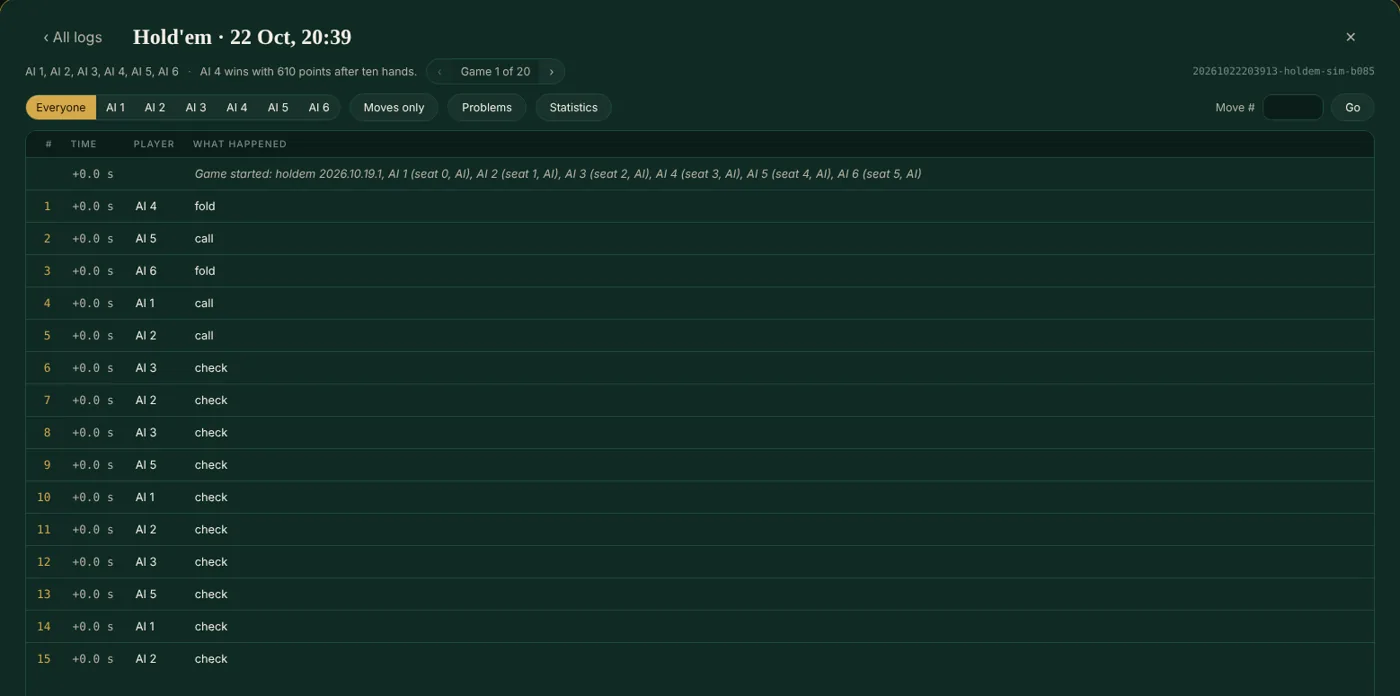
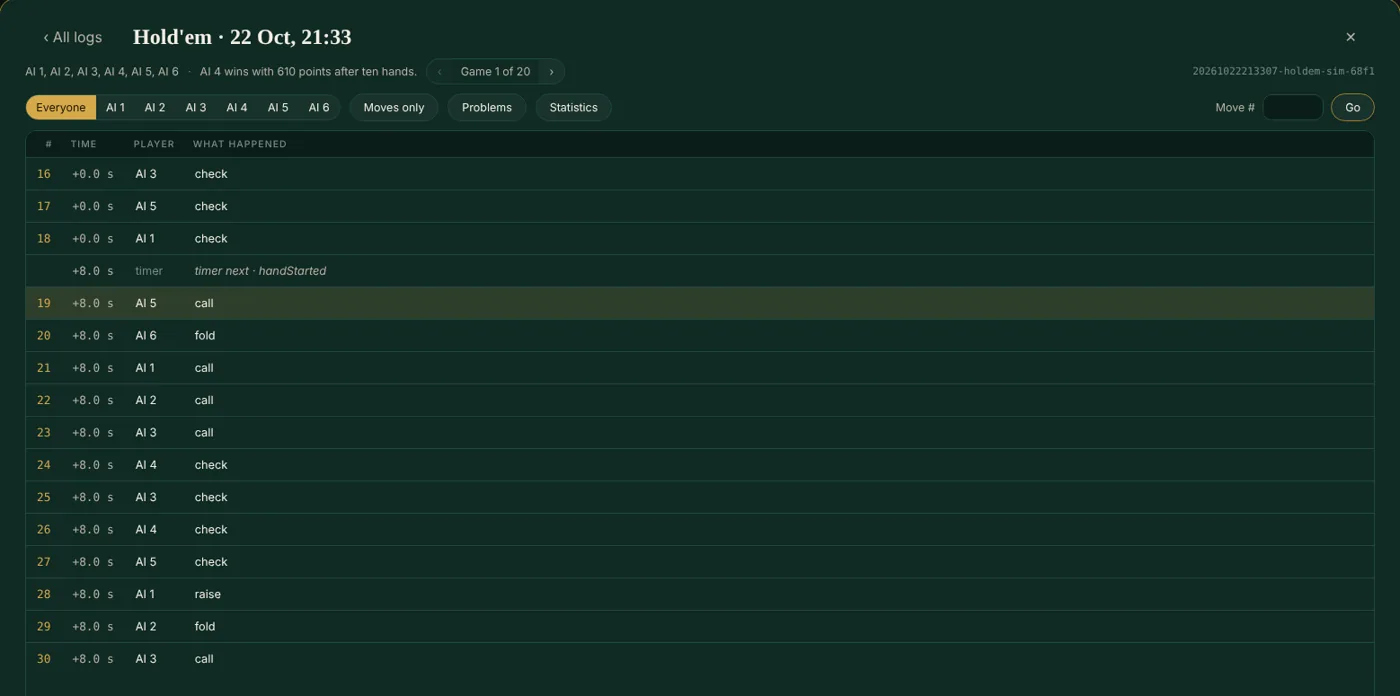
Public website: the Game Viewer screenshot again, with simulation times (D-183)
Taken on main after D-181. It now shows move 19, where the timer between
hands moves the simulation's clock to +8.0 s; the example prompt names the
new log and the caption says how simulated time moves.

Claude-Session: https://claude.ai/code/session_011EFz4GNdorLAA5Z1Qt9erp

diff --git a/apps/cloud/public/home.html b/apps/cloud/public/home.html
@@ -879,14 +879,14 @@ node scripts/soak.ts 100</pre>
           <span class="k">Game Viewer</span>
           <h4>Point at the exact move</h4>
           <p>The board's Game Viewer lists every move of every finished game, simulations included. Open a move and copy its reference, then ask your AI about it:</p>
-          <q>Read the log 20261022203913-holdem-sim-b085, game 1 #42. Why did AI 5 call there?</q>
+          <q>Read the log 20261022213307-holdem-sim-68f1, game 1 #42. Why did AI 5 call there?</q>
           <p>Everything the board can do is also an HTTP call, including each finished game's moves and statistics, so an agent can start games, read the history and check its fix by itself.</p>
         </div>
       </div>
       <figure class="dbg-shot rv" style="--d:.1s">
         <span class="aw-ribbon">Real screenshot</span>
-        <img src="/site/game-viewer.webp" width="1400" height="696" loading="lazy" alt="The Game Viewer on the board: game 1 of 20 in a Hold'em simulation with six AI players, every move numbered with the player and what happened, filters by player, moves only and problems, and a field to jump to a move number.">
-        <figcaption>The Game Viewer on the board, showing game 1 of a 20-game Hold'em simulation with six AI players.</figcaption>
+        <img src="/site/game-viewer.webp" width="1400" height="696" loading="lazy" alt="The Game Viewer on the board: game 1 of 20 in a Hold'em simulation with six AI players at move 19, where a timer starts the second hand at +8.0 s; every move numbered with the player and what happened, filters by player, moves only and problems, and a field to jump to a move number.">
+        <figcaption>The Game Viewer on the board, showing game 1 of a 20-game Hold'em simulation with six AI players, where the second hand starts. Simulated time moves on with the game's timers, not the clock.</figcaption>
       </figure>
     </div>
 

diff --git a/scripts/site-screenshots.py b/scripts/site-screenshots.py
@@ -138,7 +138,7 @@ try:
             time.sleep(1)
             board.screenshot(path=os.path.join(OUT, "statistics-board.png"))
             print("shot statistics", [x["title"] for x in a("GET", "/state")["summary"].get("awards", [])])
-        # The Game Viewer (D-180): the move list of a Hold'em simulation, twenty games with six AI players.
+        # The Game Viewer (D-180): the move list of a Hold'em simulation, twenty games with six AI players, at move 19.
         if not ONLY or "viewer" in ONLY:
             reset()
             a("POST", "/simulation", {"gameId": "holdem", "players": 6, "games": 20, "seed": 42, "settings": {"hands": 10}})
@@ -147,6 +147,10 @@ try:
             board.wait_for_selector(".vtable.logs tbody tr")
             board.locator(".vtable.logs tbody tr").nth(0).click()
             board.wait_for_selector(".vtable.moves tbody tr[data-line]")
+            # The page where the second hand starts: the timer between hands moves the game's clock on (D-181).
+            board.fill("form.goto input", "19")
+            board.click("form.goto button")
+            board.wait_for_selector(".vtable.moves tr.target td.n:text-is('19')")
             time.sleep(0.5)
             board.screenshot(path=os.path.join(OUT, "viewer-board.png"))
             board.click("button[data-close]")

diff --git a/docs/decisions.md b/docs/decisions.md
@@ -1075,3 +1075,13 @@ Klaus asked for the repo to follow kube-setup's conventions (its Obsidian vault 
   `GET /games`, which the board loads anyway. Checks: `tests/remote.test.ts` (`/version` through a remote board),
   `scripts/e2e/developer.py` (the table's board: the platform and every game with its version, as the last group),
   `scripts/e2e/remote.py` (the same on a remote board).
+
+## The Game Viewer screenshot on the public website, after D-181 (22 Oct 2026)
+
+- **D-183 · 2026-10-22 · Klaus** — The website's Game Viewer screenshot (D-180) is taken again after D-181 fixed a
+  simulation's move times, and now shows the page where the second hand starts. *Why:* Klaus: "Do we need to recreate
+  the screenshots for the games.skylar.technology site?" and "wait for #169 and then do it". *Implementation
+  (Claude):* only `site/game-viewer.webp` showed anything D-181 or D-182 changed. Its first fifteen moves were at
+  `+0.0 s`, which is right: AI players in a simulation move at once, and the game's clock moves on only with its
+  timers. So `scripts/site-screenshots.py` (`viewer`) now jumps to move 19, where the timer between hands shows and
+  the times move to `+8.0 s`. The example prompt names the new log, and the caption says how simulated time moves.

diff --git a/CHANGELOG.md b/CHANGELOG.md
@@ -8,6 +8,8 @@ history.
 
 ## [Unreleased]
 
+- The website's Game Viewer screenshot is taken again with D-181's simulation times, at the start of the second
+  hand (D-183).
 - The board's Advanced window (hammer and wrench) shows the versions of the platform and of every game on the
   table at its bottom, also on remote boards; `GET /api/v1/version` returns the platform's (D-182).
 - The Game Viewer shows a simulation's move times from its start (`+8.0 s`), in the list and a move's detail, as
